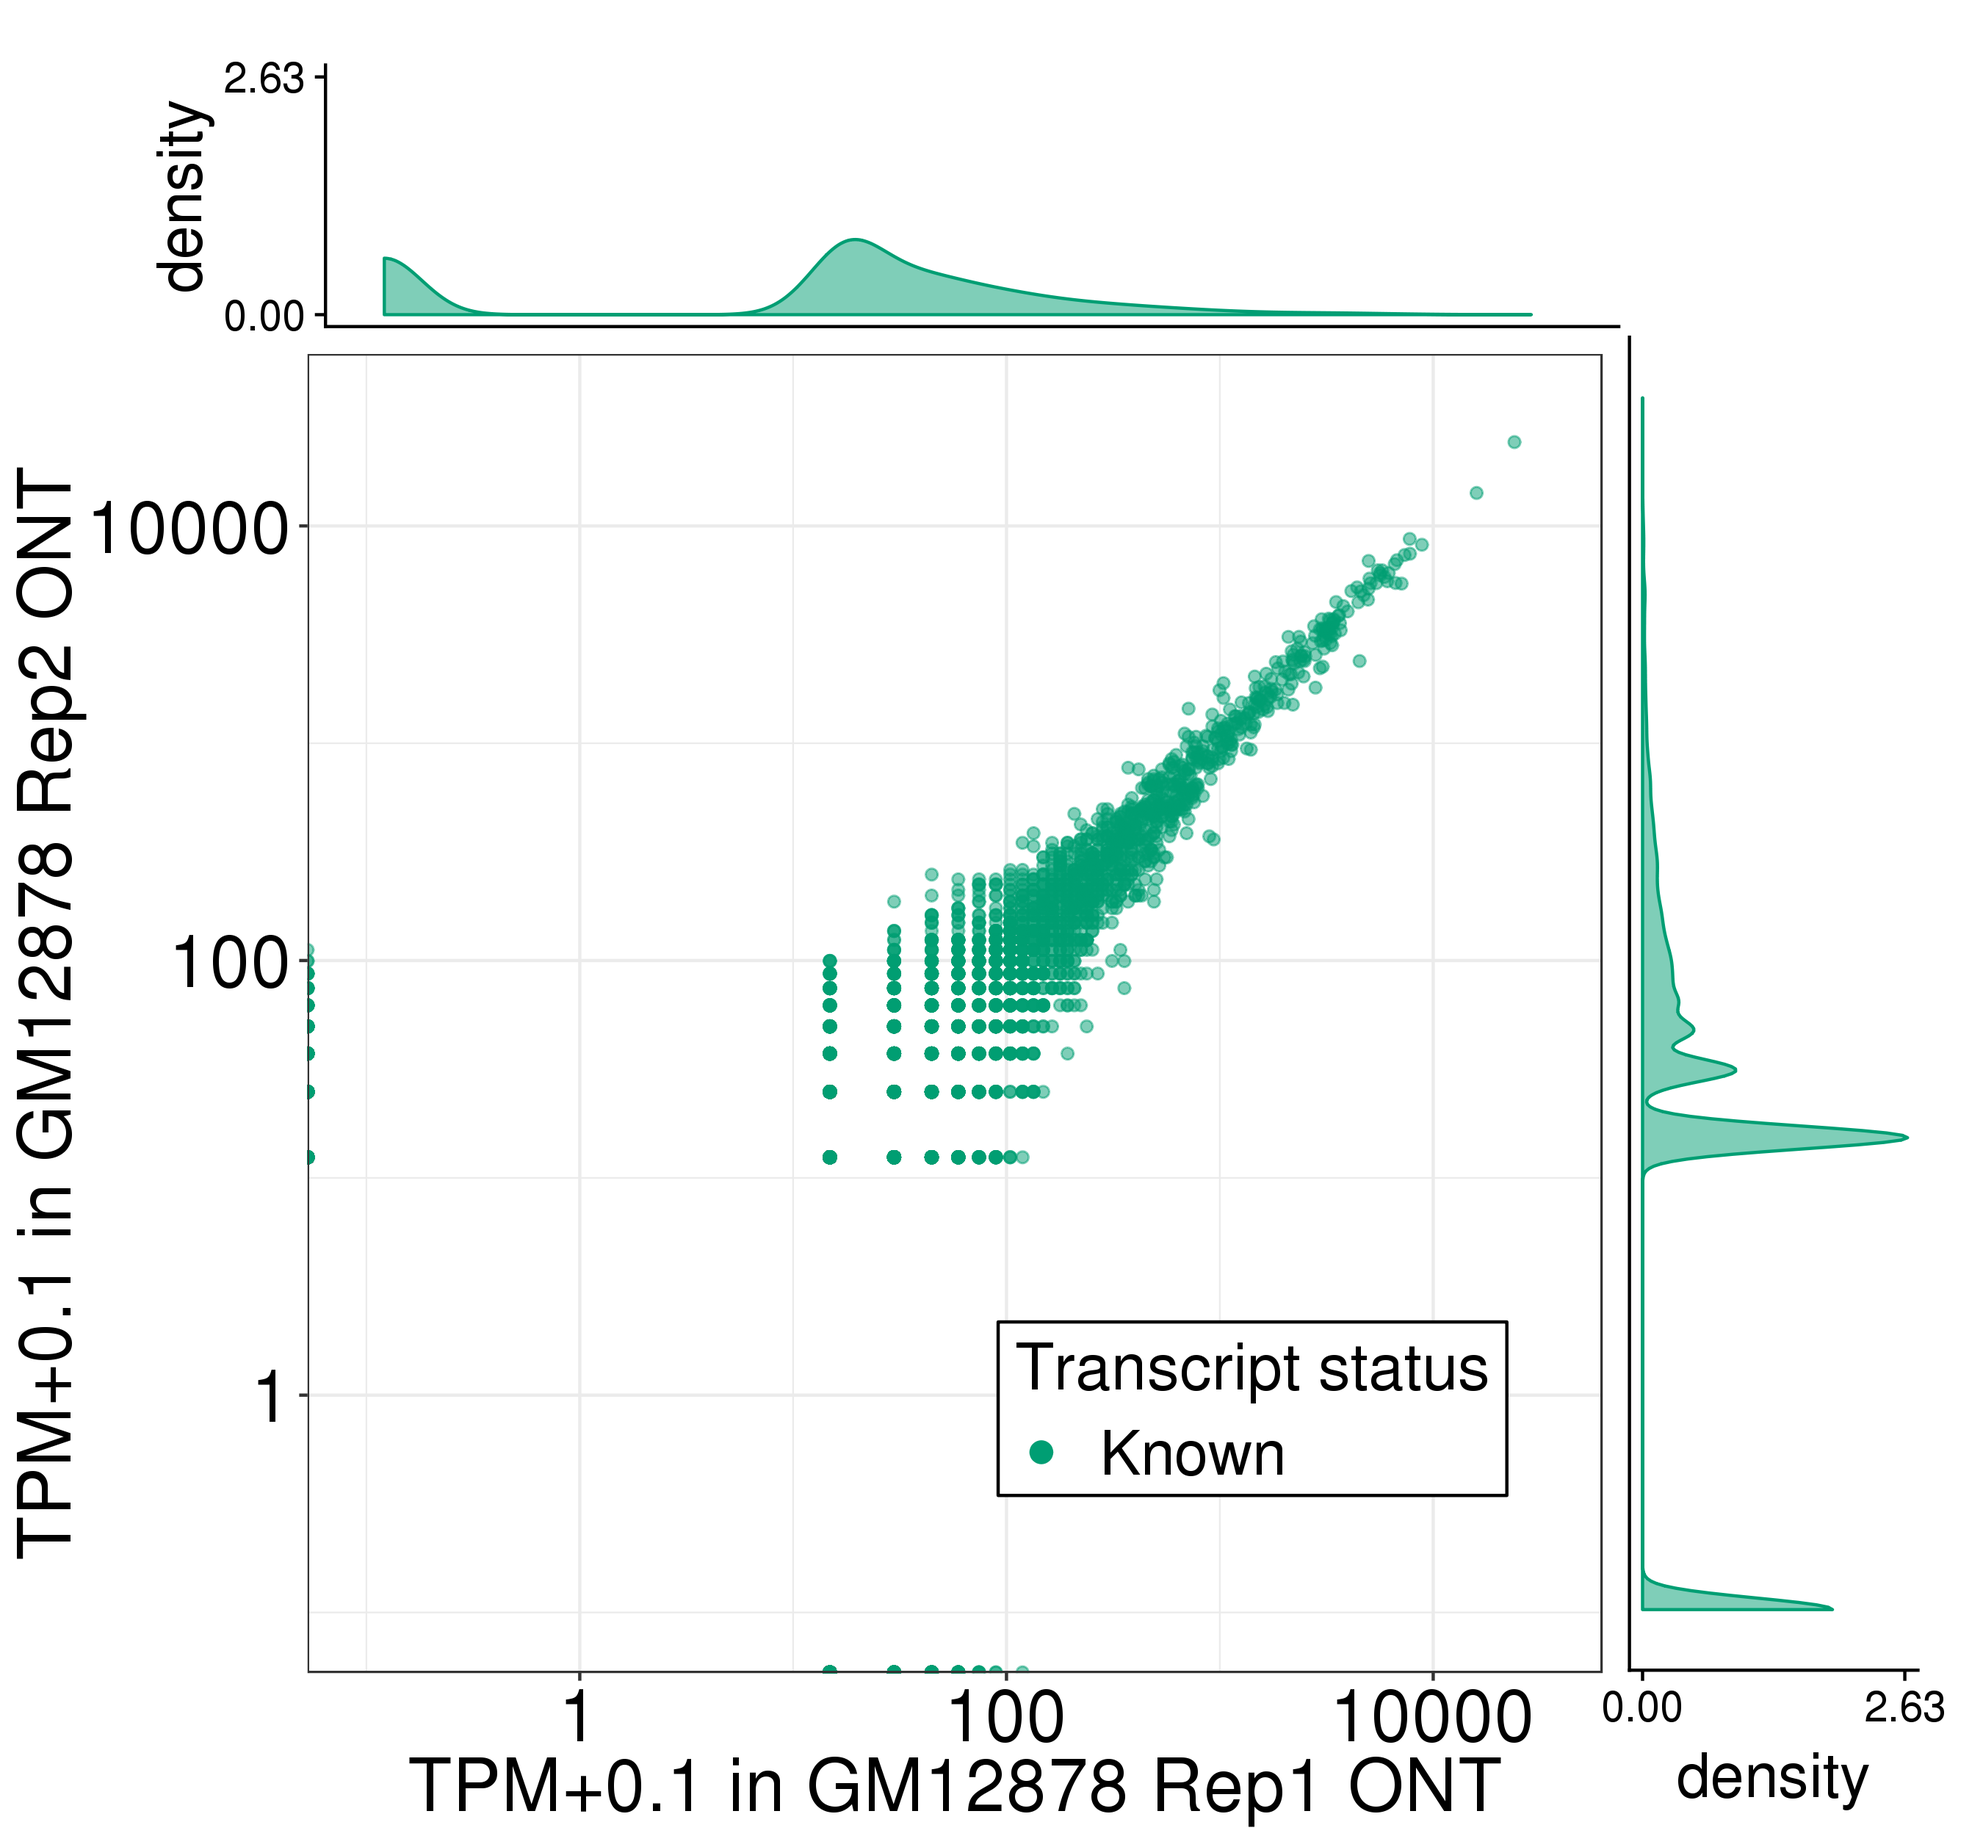
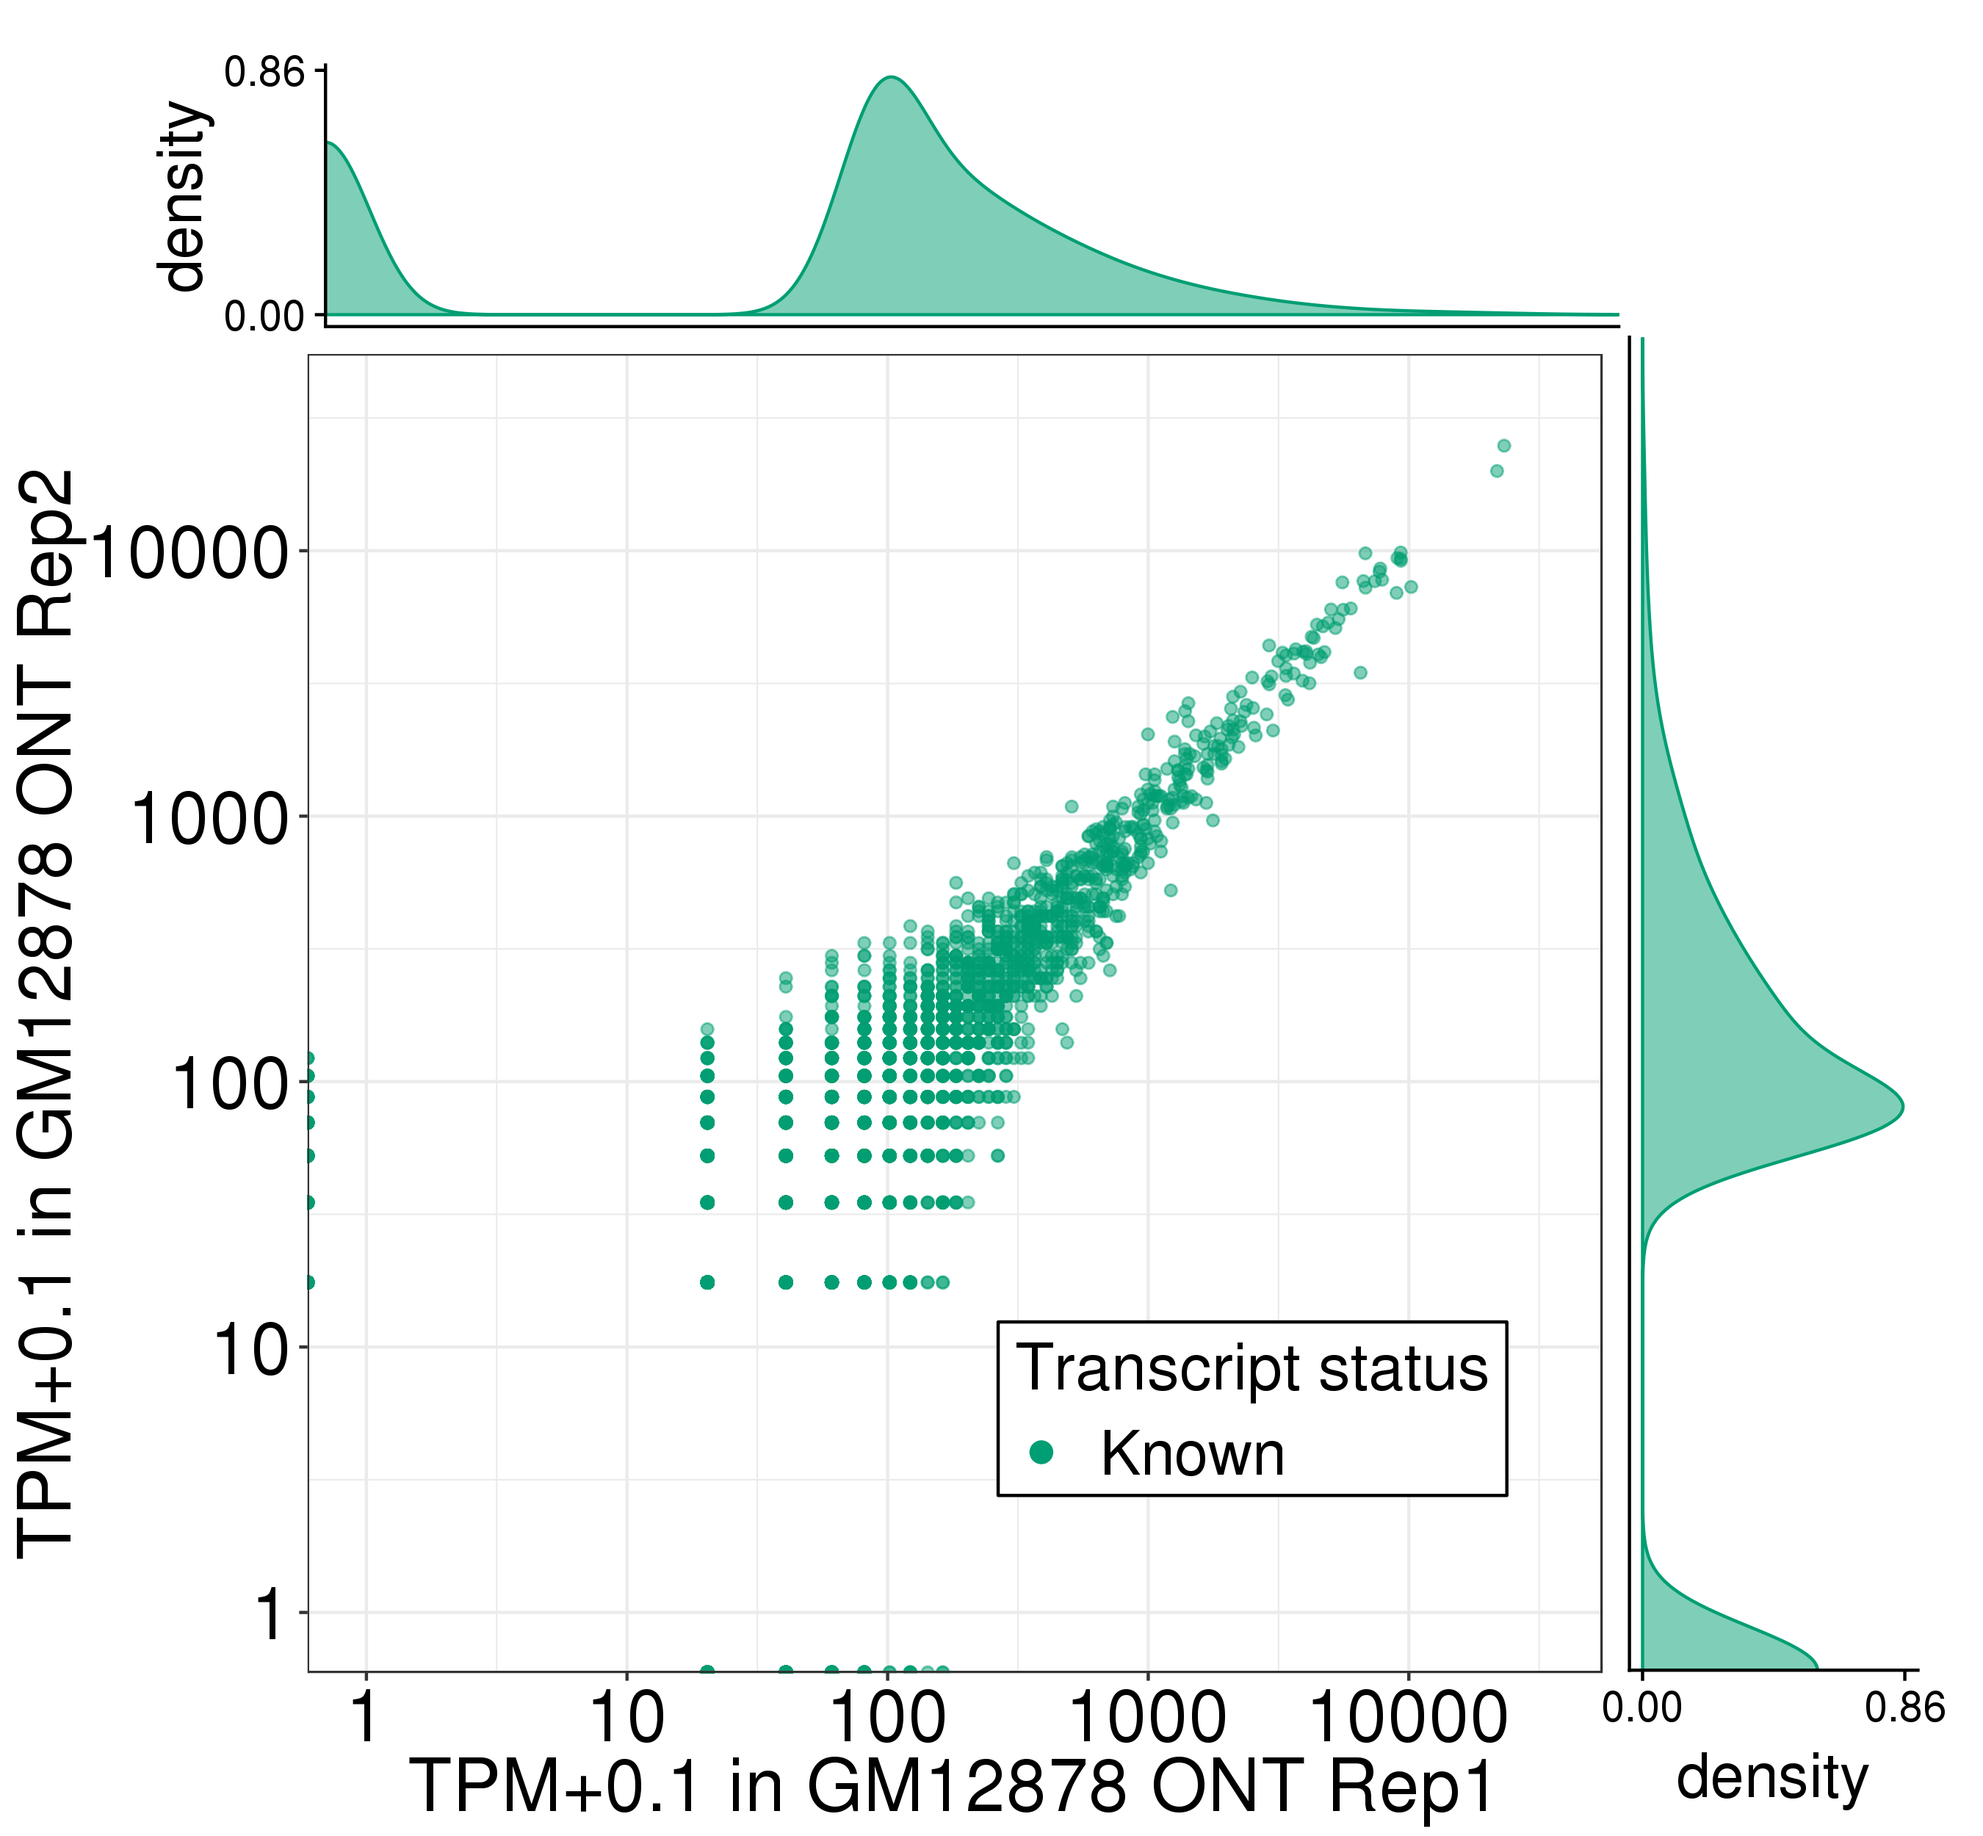
updated README, figures, and correlations with data from new TALON

diff --git a/Figure_3/README.md b/Figure_3/README.md
@@ -4,13 +4,16 @@ Files/paths used to generate the panels of this figure:
 ```bash
 PLOTPATH=../plotting_scripts
 
-abundance=S19_GM12878_ont_talon_abundance.tsv
-filt_abundance=S20_GM12878_ont_talon_abundance_filtered.tsv
-tier1_filt_abundance=S32_full_gencode_v29_ont_talon_abundance_filtered.tsv
-gtf=S30_full_gencode_v29_ont_tracks_talon_observedOnly.gtf
+# download the supplementary tables and change this path!
+sup_tables=/share/crsp/lab/seyedam/share/TALON_paper_data/revisions_10-19/human_TALON/analysis/supplementary_tables/
+
+abundance=${sup_tables}S19_GM12878_talon_abundance.tsv
+filt_abundance=${sup_tables}S20_GM12878_ont_talon_abundance_filtered.tsv
+tier1_filt_abundance=${sup_tables}S32_full_gencode_v29_ont_talon_abundance_filtered.tsv
+gtf=${sup_tables}S30_full_gencode_v29_ont_tracks_talon_observedOnly.gtf
 
 # for pb vs. ont plots
-pb_ont_abundance_filtered=S28_full_gencode_v29_pb_ont_talon_abundance.tsv
+pb_ont_abundance_filtered=${sup_tables}S28_full_gencode_v29_pb_ont_talon_abundance.tsv
 ```
 Abundance and GTF files are available as supplementary tables of the TALON paper. 
 
@@ -25,8 +28,8 @@ Rscript ${PLOTPATH}/plot_longread_gene_expression_corr.R \
           --d1 ONT_GM12878_1 \
           --d2 ONT_GM12878_2 \
           --celltype GM12878 \
-          --d1_type 'Rep1 ONT' \
-          --d2_type 'Rep2 ONT' \
+          --d1_type 'ONT Rep1' \
+          --d2_type 'ONT Rep2' \
           -o .
 ```
 <img align="center" width="400" src="ONT_GM12878_1-ONT_GM12878_2_gene_correlationPlot.png">
@@ -38,9 +41,9 @@ Rscript ${PLOTPATH}/plot_longread_gene_expression_corr.R \
 Rscript ${PLOTPATH}/plot_longread_transcript_expression_corr.R \
          --f ${filt_abundance} \
          --d1 ONT_GM12878_1 \
-         --d1_type 'Rep1 ONT' \
+         --d1_type 'ONT Rep1' \
          --d2 ONT_GM12878_2 \
-         --d2_type 'Rep2 ONT' \
+         --d2_type 'ONT Rep2' \
          --celltype GM12878 \
          -o .
 ```
